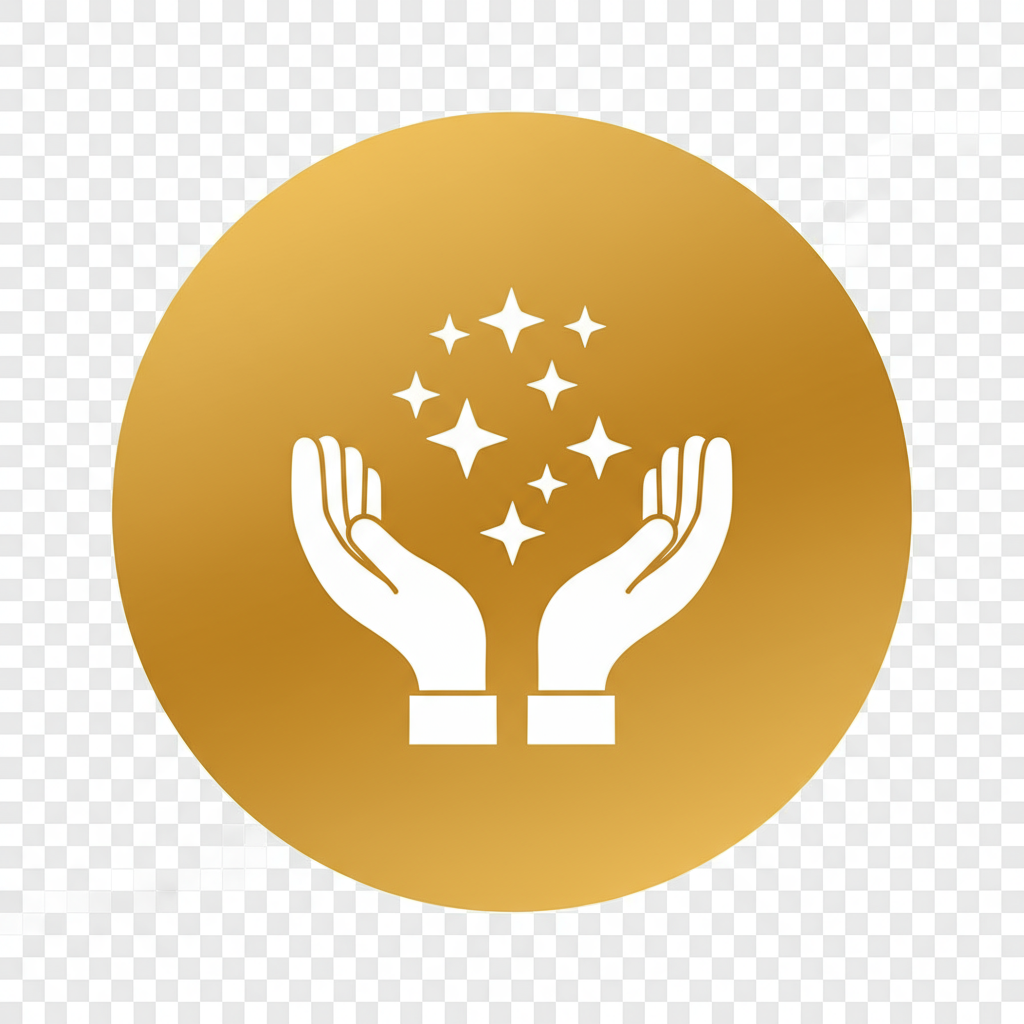
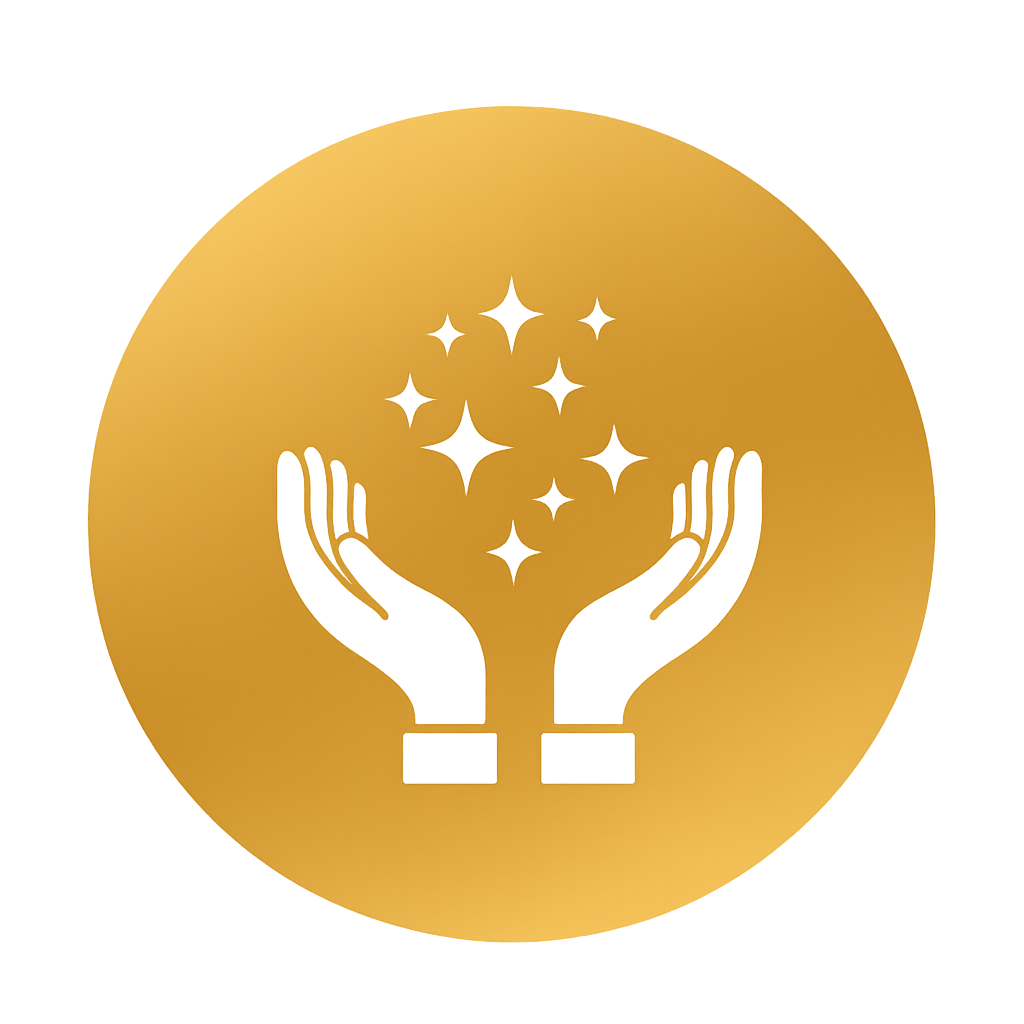
Design system standardization: consistent border-radius across platform
- Standardized border-radius values (0.5rem, 0.75rem, 1rem, 1.5rem, 9999px, 50%)
- Updated Sonoterapia.css: 17 instances standardized
- Updated BlogPodcast.css: 37 instances standardized
- Updated TiradaAngelical.css: instruction container now matches Sonoterapia
- Updated CanalizacionesSonoterapia.css: already compliant
- Replaced IconoIntencionClara and IconoReceptividadTotal with new designs
- Ensured instruction boxes have identical dimensions across all pages
- Created design system documentation

diff --git a/src/components/CanalizacionesSonoterapia.css b/src/components/CanalizacionesSonoterapia.css
@@ -26,17 +26,18 @@
   color: #333;
   line-height: 1.6;
   min-height: 100vh;
-  padding: 2rem;
+  padding: 0;
   display: flex;
   flex-direction: column;
-  gap: 2rem;
+  gap: 0;
 }
 
 /* Título y descripción fuera del recuadro */
 .titulo-descripcion-section {
   text-align: center;
   max-width: 900px;
-  margin: 0 auto 2rem;
+  margin: 0 auto;
+  padding: 2rem 2rem 0 2rem;
 }
 
 .titulo-principal-sonoterapia {
@@ -52,18 +53,23 @@
   line-height: 1.5;
 }
 
-/* Recuadro morado con instrucciones */
+/* Recuadro morado con instrucciones - CONSISTENTE CON APERTURA ANGELICAL */
 .recuadro-morado-instrucciones {
   background-image: url('../assets/FondoMoradoSonoterapia.png');
   background-size: cover;
   background-position: center;
-  border-radius: 3rem;
-  padding: 3rem;
-  max-width: 1400px;
-  margin: 0 auto;
+  border-radius: 1.5rem;
+  padding: 3rem 2rem;
+  max-width: 100%;
+  width: 100%;
+  margin: 0;
   box-shadow: 0 20px 60px rgba(147, 51, 234, 0.3);
   flex: 1;
   position: relative;
+  min-height: 600px;
+  display: flex;
+  align-items: center;
+  justify-content: center;
 }
 
 /* Overlay semi-transparente para mejor legibilidad */
@@ -75,7 +81,7 @@
   right: 0;
   bottom: 0;
   background: rgba(147, 51, 234, 0.1);
-  border-radius: 3rem;
+  border-radius: 1.5rem;
   pointer-events: none;
 }
 

diff --git a/src/components/TiradaAngelical.css b/src/components/TiradaAngelical.css
@@ -140,9 +140,11 @@
   background-size: cover;
   background-position: center;
   background-repeat: no-repeat;
-  padding: 2rem 0;
+  border-radius: 1.5rem; /* XL - Standardized to match Sonoterapia */
+  padding: 3rem 2rem; /* Standardized to match Sonoterapia */
   margin: 0;
   overflow: hidden; /* Prevent horizontal overflow */
+  box-shadow: 0 20px 60px rgba(59, 130, 246, 0.3); /* Added for consistency */
 }
 
 /* Removed ::before to prevent positioning issues */

diff --git a/src/components/IconoIntencionClara.jsx b/src/components/IconoIntencionClara.jsx
@@ -1,10 +1,10 @@
 import React from 'react';
-import iconoIntencionClaraHD from '../assets/IconoIntencionClaraHD.png';
+import iconoIntencionClara from '../assets/IconoIntencionClara.png';
 
 const IconoIntencionClara = ({ className = "w-24 h-24" }) => {
   return (
     <img
-      src={iconoIntencionClaraHD}
+      src={iconoIntencionClara}
       alt="Intención Clara"
       className={className}
       style={{ objectFit: 'contain' }}
